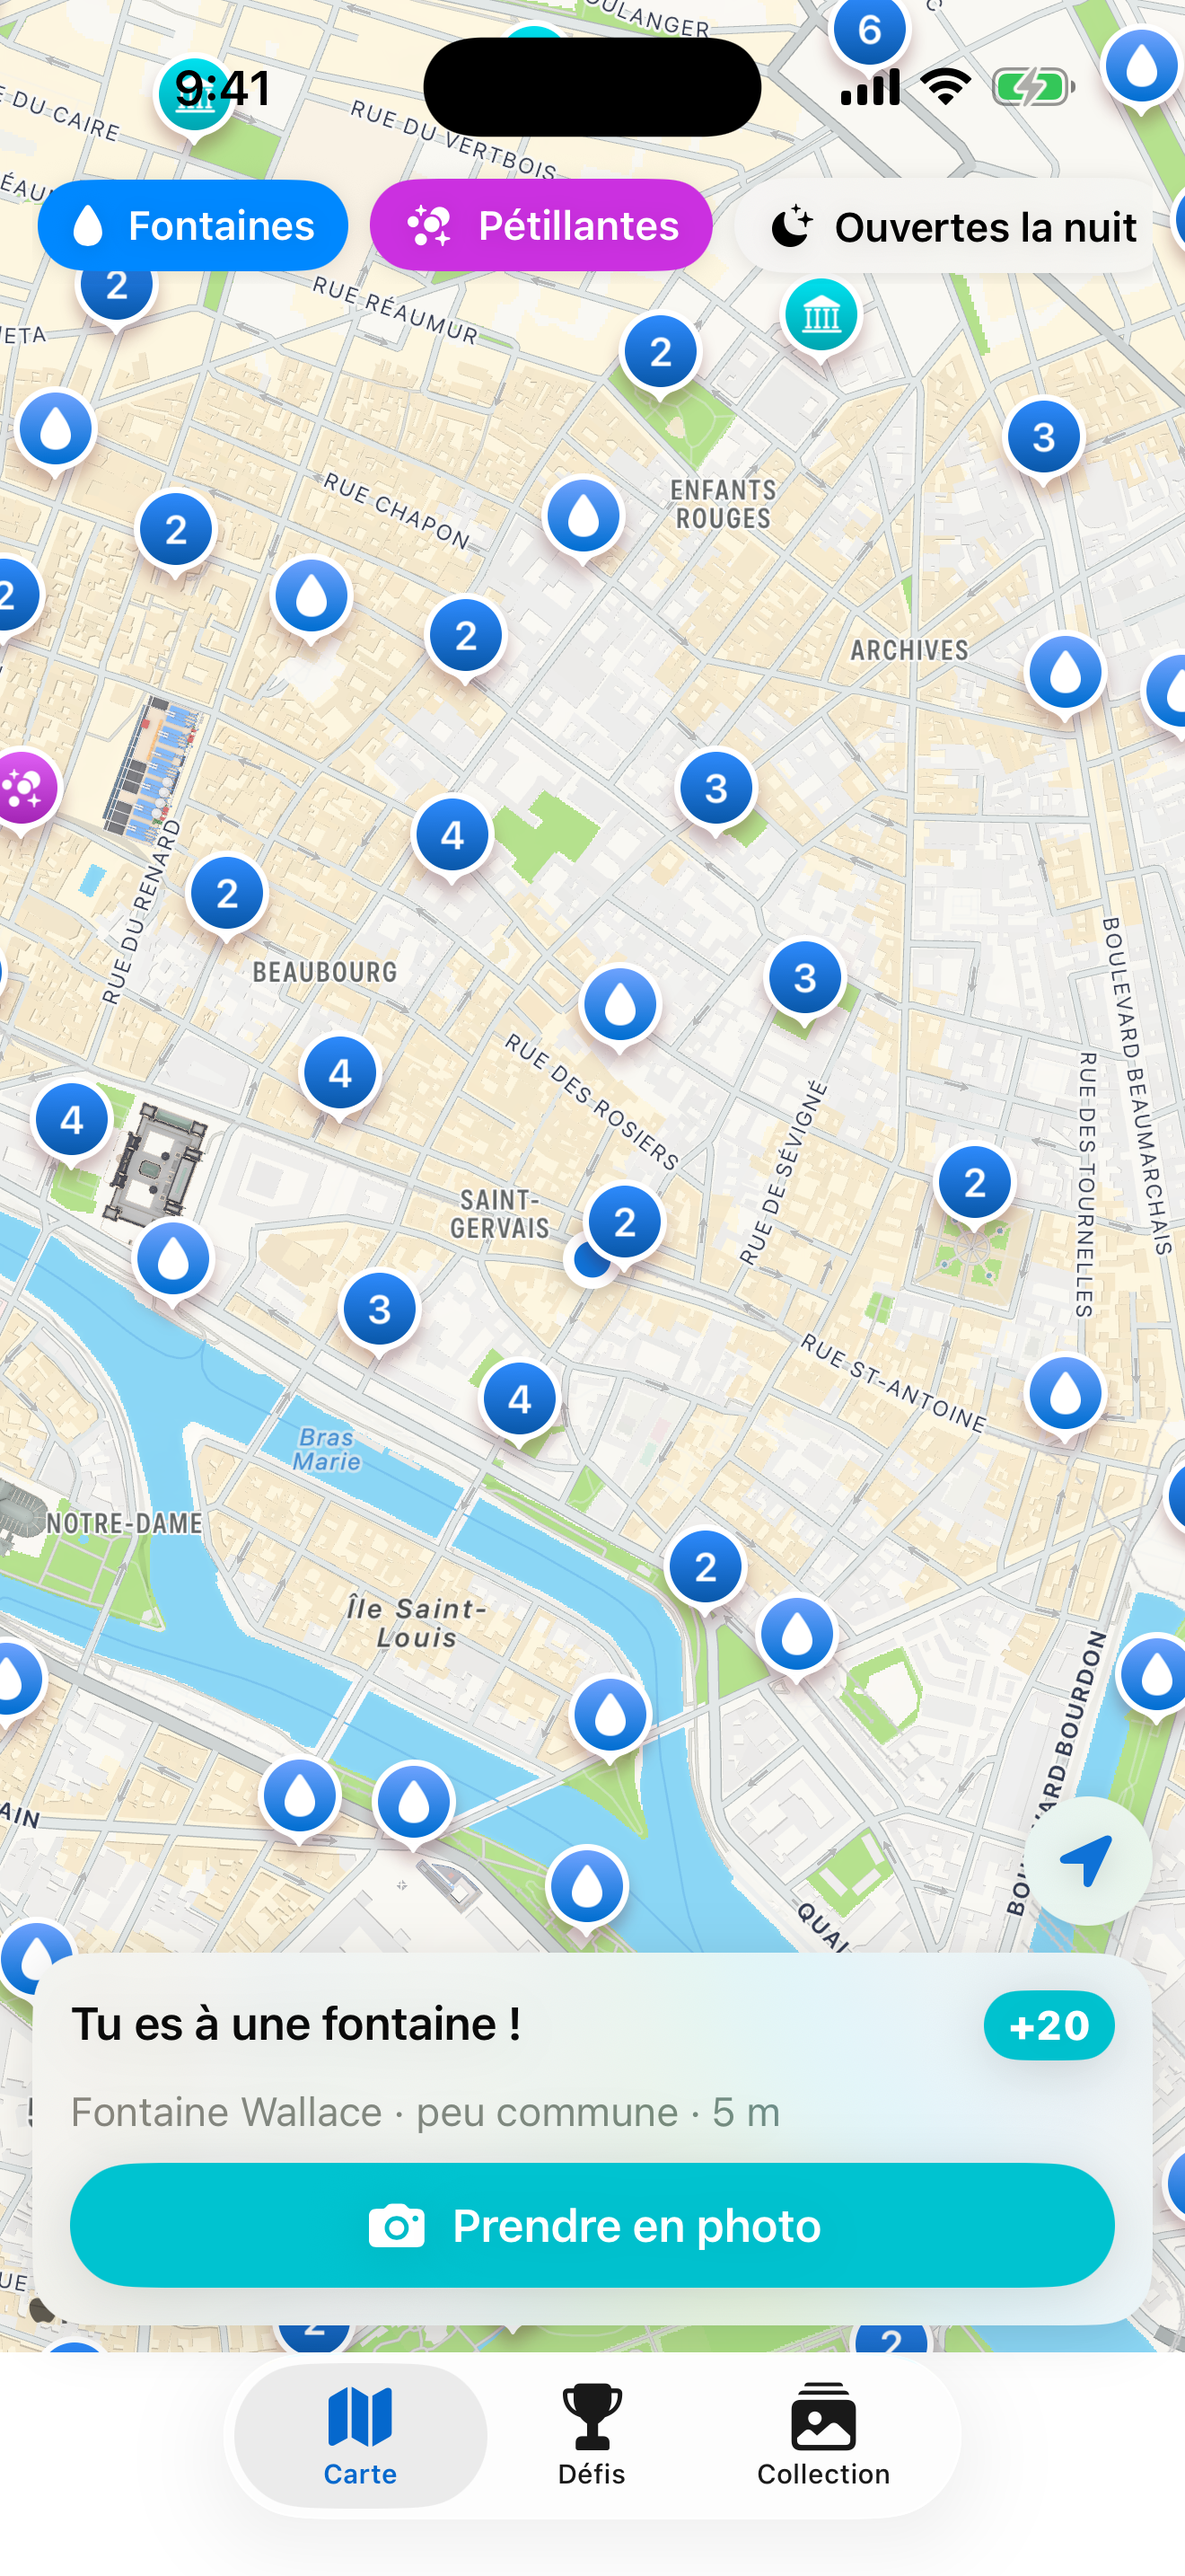
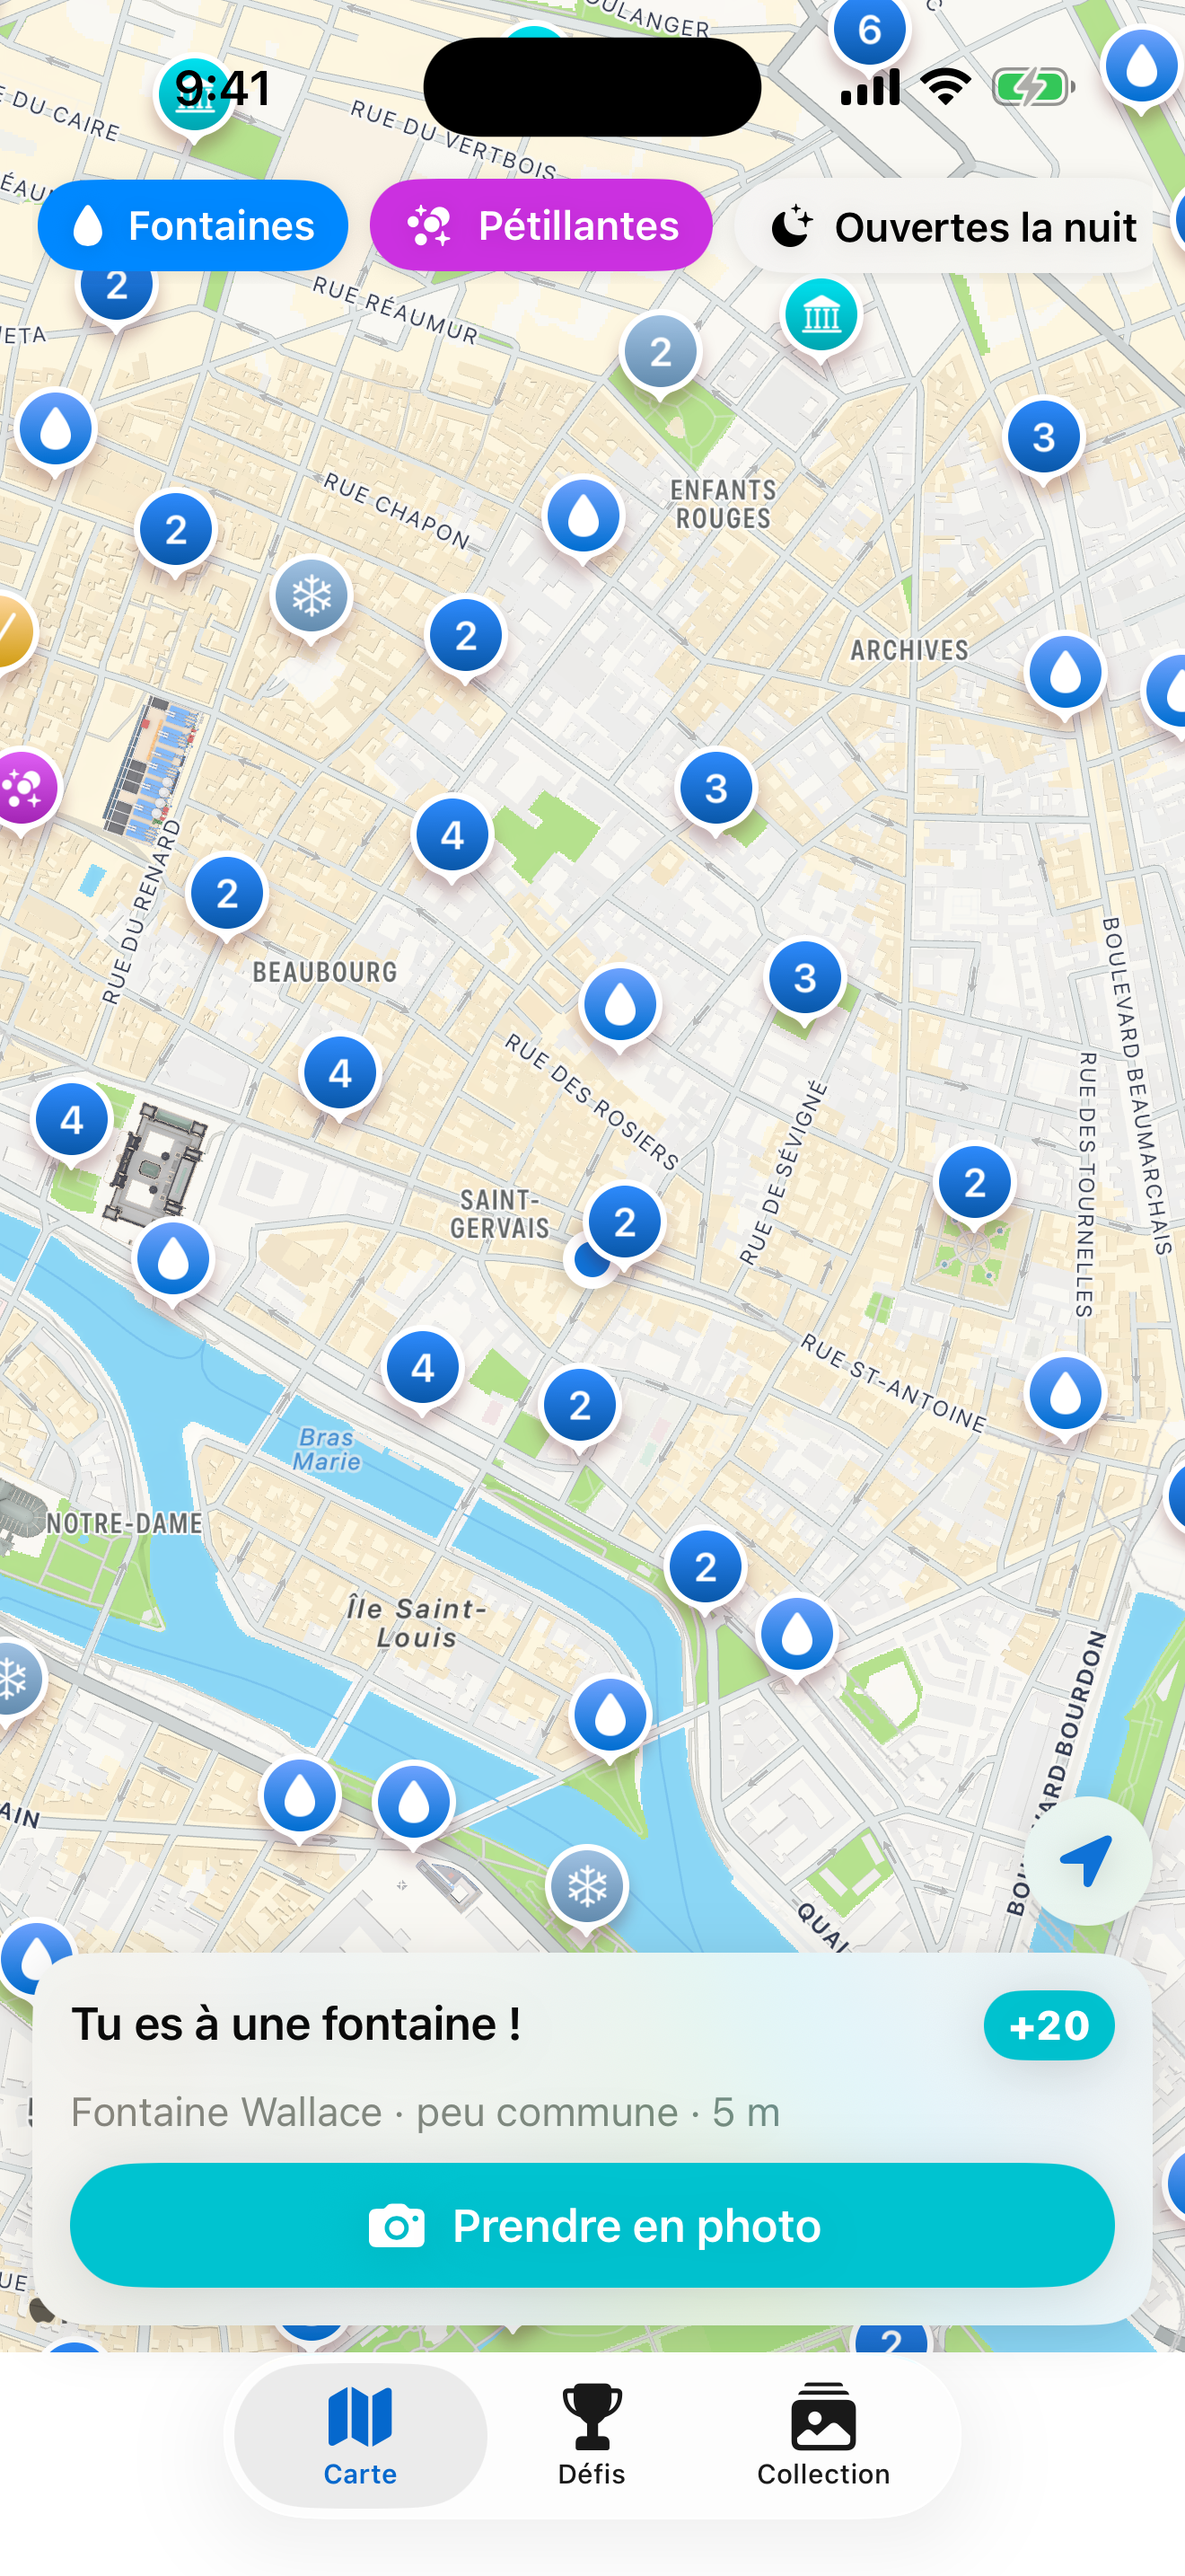
Fiche : en hiver, une seule ligne d'état pour les points sans état officiel ; captures App Store de la 1.1

diff --git a/ios/PointsEau/FichePoint.swift b/ios/PointsEau/FichePoint.swift
@@ -15,6 +15,10 @@ struct FichePoint: View {
     private var visite: Visite? { jeu.visites[point.id] }
     private var aPortee: Bool { position.location.map { Regles.aPortee(point, depuis: $0) } ?? false }
     private var style: (UIColor, String) { StyleMarqueur.style(point, collectee: visite != nil) }
+    /// En hiver, seule Eau de Paris publie ses coupures : pour les autres points, on ne sait pas s'ils coulent.
+    private var hiverInconnu: Bool {
+        !point.hiverConnu && point.estFontaine && Geo.estLHiver() && point.saison != true
+    }
 
     var body: some View {
         ScrollView {
@@ -78,6 +82,9 @@ struct FichePoint: View {
                 BadgeGel()
                 Text("Elle ne coule pas en ce moment. Eau de Paris coupe ces fontaines pendant le froid, pour protéger les tuyaux du gel et éviter le verglas. Elles sont remises en eau au printemps, en général en avril.")
                     .font(.footnote).foregroundStyle(.secondary)
+            } else if point.ok && hiverInconnu {
+                Label("État d'hiver inconnu : ce point peut être coupé à cause du gel.", systemImage: "snowflake")
+                    .foregroundStyle(Color(StyleMarqueur.glace))
             } else if point.ok {
                 Label("En service", systemImage: "checkmark.circle.fill").foregroundStyle(.green)
             } else {
@@ -103,11 +110,6 @@ struct FichePoint: View {
             }
             if point.saison == true {
                 Label("Fermée une partie de l'année (point saisonnier).", systemImage: "snowflake")
-            }
-            if !point.hiverConnu && point.estFontaine && Geo.estLHiver() && point.saison != true {
-                Label("En hiver, ce point peut être coupé à cause du gel : on ne sait pas s'il coule en ce moment.",
-                      systemImage: "snowflake")
-                    .font(.footnote).foregroundStyle(.secondary)
             }
             if point.src == "osm" {
                 Text("Point signalé par OpenStreetMap.").font(.footnote).foregroundStyle(.secondary)
